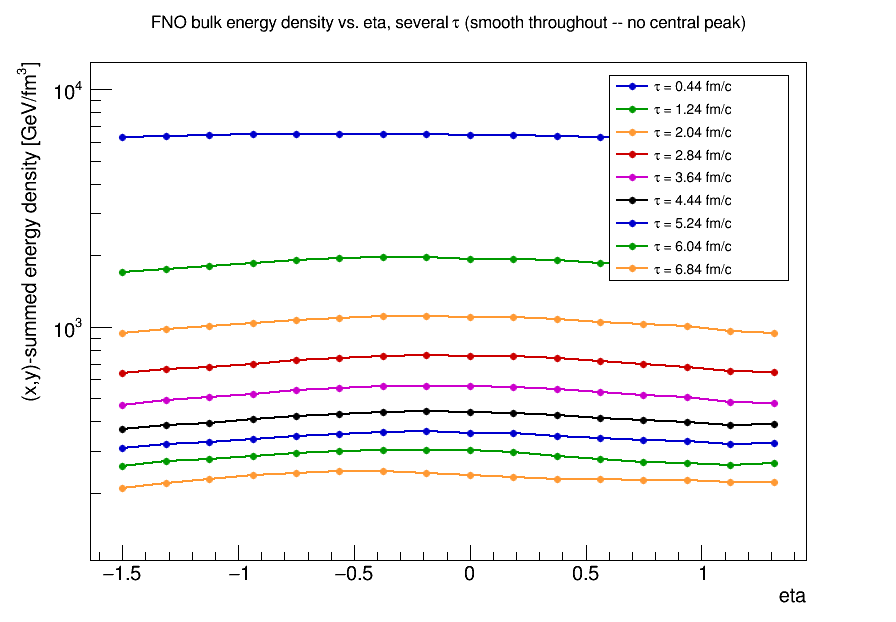
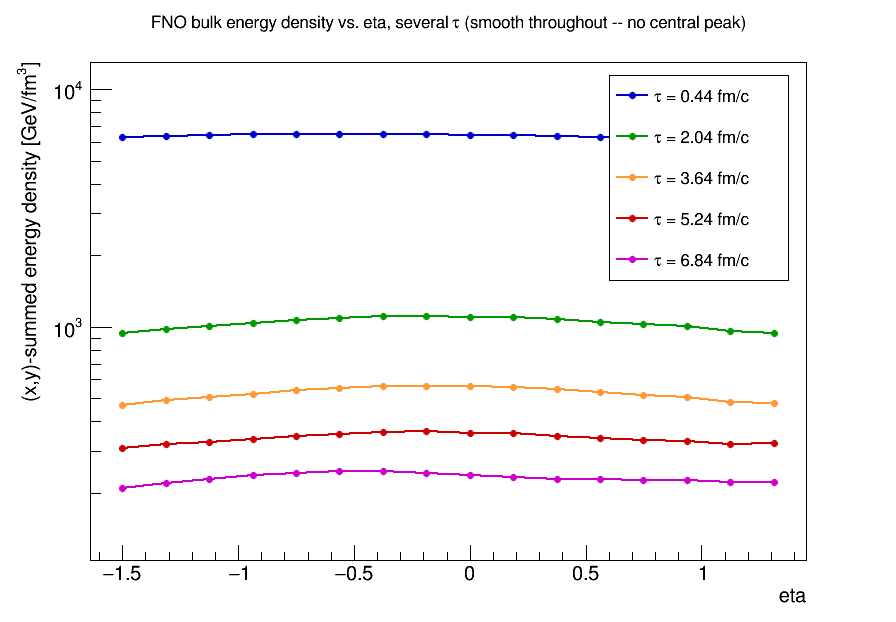
Commit the plotting scripts behind the particlization investigation plots
plot_eta_evolution.py: bulk energy-density-vs-eta at several tau steps from
a WriteEtaProfileDiagnostics CSV (fixed an evenly-spaced-thinning bug while
at it -- was picking only 1-2 of the intended ~5 steps).
plot_final_peak.py: final FNO-vs-MUSIC rapidity spectra from a
compare_particle_spectra.py output .root file, now taking the input path,
output name, and title as CLI args instead of hardcoded.

Refreshes bulk_eta_evolution_event0.png with the fixed thinning (5 distinct
tau curves instead of 2 repeated colors).

diff --git a/contribs/FnoHydro/example/plot_eta_evolution.py b/contribs/FnoHydro/example/plot_eta_evolution.py
@@ -1,0 +1,95 @@
+#!/usr/bin/env python3
+"""Plot energy-density-vs-eta at several tau steps from an
+WriteEtaProfileDiagnostics CSV, to show the raw hydro field stays smooth in
+eta throughout the evolution (no central peak at any stage) -- contrasted
+against the final sampled-hadron rapidity spectrum, which does show a
+central peak. Used for PARTICLIZATION_INVESTIGATION.md.
+"""
+import csv
+import sys
+from collections import defaultdict
+
+import ROOT
+
+ROOT.gROOT.SetBatch(True)
+
+
+def load_eta_profile(path):
+    by_k = defaultdict(dict)
+    taus = {}
+    with open(path) as f:
+        reader = csv.DictReader(f)
+        for row in reader:
+            k = int(row["k"])
+            eta = float(row["eta_value"])
+            by_k[k][eta] = float(row["sum_energy_density_GeV_fm3"])
+            taus[k] = float(row["tau_fm"])
+    return by_k, taus
+
+
+def main():
+    csv_path = sys.argv[1] if len(sys.argv) > 1 else "eta_profile_event0.csv"
+    out_png = sys.argv[2] if len(sys.argv) > 2 else "bulk_eta_evolution.png"
+
+    by_k, taus = load_eta_profile(csv_path)
+    ks = sorted(by_k.keys())
+    # Pick a handful of steps spanning the evolution, skipping any
+    # post-freeze-out-cutoff steps (where sum_ed collapses by >90% between
+    # consecutive sparse samples -- those are extrapolation noise, not
+    # physical).
+    chosen_ks = []
+    prev_total = None
+    for k in ks:
+        total = sum(by_k[k].values())
+        if prev_total is not None and total < 0.05 * prev_total:
+            break
+        chosen_ks.append(k)
+        prev_total = total
+    # Thin down to ~5 representative steps evenly spaced across the valid
+    # range (always keeps the first and last).
+    max_steps = 5
+    if len(chosen_ks) > max_steps:
+        idx = [round(i * (len(chosen_ks) - 1) / (max_steps - 1)) for i in range(max_steps)]
+        chosen_ks = [chosen_ks[i] for i in sorted(set(idx))]
+
+    colors = [ROOT.kBlue + 1, ROOT.kGreen + 2, ROOT.kOrange + 1,
+              ROOT.kRed + 1, ROOT.kMagenta + 1, ROOT.kBlack]
+
+    c = ROOT.TCanvas("c_eta_evol", "bulk eta evolution", 900, 650)
+    c.SetLogy()
+    leg = ROOT.TLegend(0.68, 0.55, 0.88, 0.88)
+    graphs = []
+    frame_max = 0.0
+    frame_min = 1e18
+    for i, k in enumerate(chosen_ks):
+        etas = sorted(by_k[k].keys())
+        vals = [by_k[k][e] for e in etas]
+        frame_max = max(frame_max, max(vals))
+        frame_min = min(frame_min, min(v for v in vals if v > 0))
+        g = ROOT.TGraph(len(etas))
+        for j, (e, v) in enumerate(zip(etas, vals)):
+            g.SetPoint(j, e, v)
+        g.SetLineColor(colors[i % len(colors)])
+        g.SetLineWidth(2)
+        g.SetMarkerColor(colors[i % len(colors)])
+        g.SetMarkerStyle(20)
+        g.SetMarkerSize(0.8)
+        graphs.append(g)
+        leg.AddEntry(g, f"#tau = {taus[k]:.2f} fm/c", "lp")
+
+    mg = ROOT.TMultiGraph()
+    for g in graphs:
+        mg.Add(g, "LP")
+    mg.SetTitle("FNO bulk energy density vs. eta, several #tau "
+                "(smooth throughout -- no central peak);"
+                "eta;(x,y)-summed energy density [GeV/fm^{3}]")
+    mg.Draw("A")
+    mg.GetYaxis().SetRangeUser(frame_min * 0.5, frame_max * 2.0)
+    leg.Draw()
+    c.SaveAs(out_png)
+    print(f"Wrote {out_png} using steps {chosen_ks} (tau = "
+          f"{[round(taus[k],2) for k in chosen_ks]} fm/c)")
+
+
+if __name__ == "__main__":
+    main()

diff --git a/contribs/FnoHydro/example/plot_final_peak.py b/contribs/FnoHydro/example/plot_final_peak.py
@@ -1,0 +1,46 @@
+#!/usr/bin/env python3
+"""Plot the final FNO-vs-MUSIC rapidity spectra from a compare_particle_spectra.py
+output .root file, for side-by-side comparison against
+plot_eta_evolution.py's bulk-field plot -- see PARTICLIZATION_INVESTIGATION.md.
+
+Usage:
+  python3 plot_final_peak.py <spectra_comparison.root> [out.png] [title]
+"""
+import sys
+
+import ROOT
+
+ROOT.gROOT.SetBatch(True)
+
+
+def main():
+    root_path = sys.argv[1]
+    out_png = sys.argv[2] if len(sys.argv) > 2 else "final_sampled_rapidity_peak.png"
+    title = sys.argv[3] if len(sys.argv) > 3 else "Final Cooper-Frye sampled hadron rapidity"
+
+    f = ROOT.TFile(root_path)
+    h_fno = f.Get("hY_FNO")
+    h_music = f.Get("hY_MUSIC")
+
+    c = ROOT.TCanvas("c_final_peak", "final sampled rapidity", 900, 650)
+    h_music.SetTitle(f"{title};rapidity y;dN/dy")
+    h_music.SetMinimum(0)
+    h_music.SetMaximum(1.15 * max(h_fno.GetMaximum(), h_music.GetMaximum()))
+    h_music.SetLineColor(ROOT.kOrange + 7)
+    h_music.SetMarkerColor(ROOT.kOrange + 7)
+    h_music.SetMarkerStyle(20)
+    h_fno.SetLineColor(ROOT.kAzure + 1)
+    h_fno.SetMarkerColor(ROOT.kAzure + 1)
+    h_fno.SetMarkerStyle(20)
+    h_music.Draw("E1")
+    h_fno.Draw("E1 SAME")
+    leg = ROOT.TLegend(0.6, 0.72, 0.88, 0.88)
+    leg.AddEntry(h_music, "MUSIC + iSS", "lep")
+    leg.AddEntry(h_fno, "FNO + iSS", "lep")
+    leg.Draw()
+    c.SaveAs(out_png)
+    print(f"Wrote {out_png}")
+
+
+if __name__ == "__main__":
+    main()

diff --git a/contribs/FnoHydro/PARTICLIZATION_INVESTIGATION.md b/contribs/FnoHydro/PARTICLIZATION_INVESTIGATION.md
@@ -61,6 +61,10 @@ show a real, localized peak at y≈0:
 
 ![Final sampled hadron rapidity, FNO vs MUSIC, FNO shows a real central peak](docs/particlization_investigation/final_sampled_rapidity_peak.png)
 
+(Plotted with `example/plot_eta_evolution.py <eta_profile_eventN.csv>` and
+`example/plot_final_peak.py <spectra_comparison.root>` respectively --
+rerun against fresh diagnostic output to regenerate or extend these.)
+
 The contrast between these two plots is the core evidence that the peak is
 introduced at the freeze-out-surface / Cooper-Frye-sampling stage, not
 inherited from the bulk evolution.
